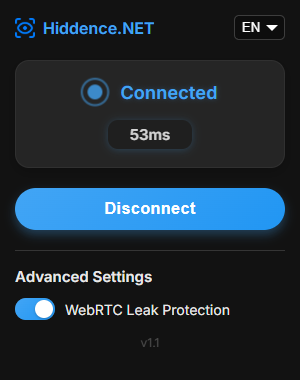
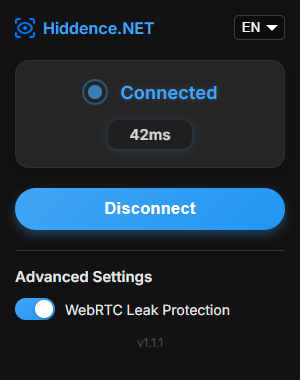
Update 1.1.1

Changed region(s): [[0.27, 0.2026, 0.39, 0.2895], [0.42, 0.3184, 0.57, 0.3763], [0.45, 0.8684, 0.54, 0.9263]]

diff --git a/src/App.js b/src/App.js
@@ -387,9 +387,10 @@ const App = () => {
   }, [updateWebRTCPolicy]);
 
   useEffect(() => {
-    let pingInterval;
-    if (isConnected && !isConnecting) {
-      pingInterval = setInterval(() => {
+    let pingTimeout;
+
+    const checkPing = () => {
+      if (isConnected && !isConnecting) {
         chrome.runtime.sendMessage({ action: 'getPing' }, (response) => {
           if (response && response.status === 'success' && response.ping) {
             setPing(`${response.ping}ms`);
@@ -398,16 +399,22 @@ const App = () => {
             setPing('--');
             setConnectionError(response?.error || 'Ping failed');
             setIsConnected(false);
+            
+            chrome.runtime.sendMessage({ action: 'clearProxy' });
+
             chrome.storage.local.set({ vpnConnected: false });
             updateWebRTCPolicy(false, webrtcEnabled);
           }
+          pingTimeout = setTimeout(checkPing, 2000);
         });
-      }, 2000);
-    }
+      }
+    };
+
+    pingTimeout = setTimeout(checkPing, 2000);
 
     return () => {
-      if (pingInterval) {
-        clearInterval(pingInterval);
+      if (pingTimeout) {
+        clearTimeout(pingTimeout);
       }
     };
   }, [isConnected, isConnecting, updateWebRTCPolicy, webrtcEnabled]);
@@ -554,7 +561,7 @@ const App = () => {
         </div>
       </div>
       <footer>
-        <span className="version">v1.1</span>
+        <span className="version">v1.1.1</span>
       </footer>
     </div>
   );

diff --git a/js/background.js b/js/background.js
@@ -4,7 +4,7 @@ const PROXY_SCHEME = 'socks5';
 
 const servers = {
     auto: { 
-        host: PROXY_HOST, 
+        host: PROXY_HOST,
         port: PROXY_PORT,
         scheme: PROXY_SCHEME,
         ping: null
